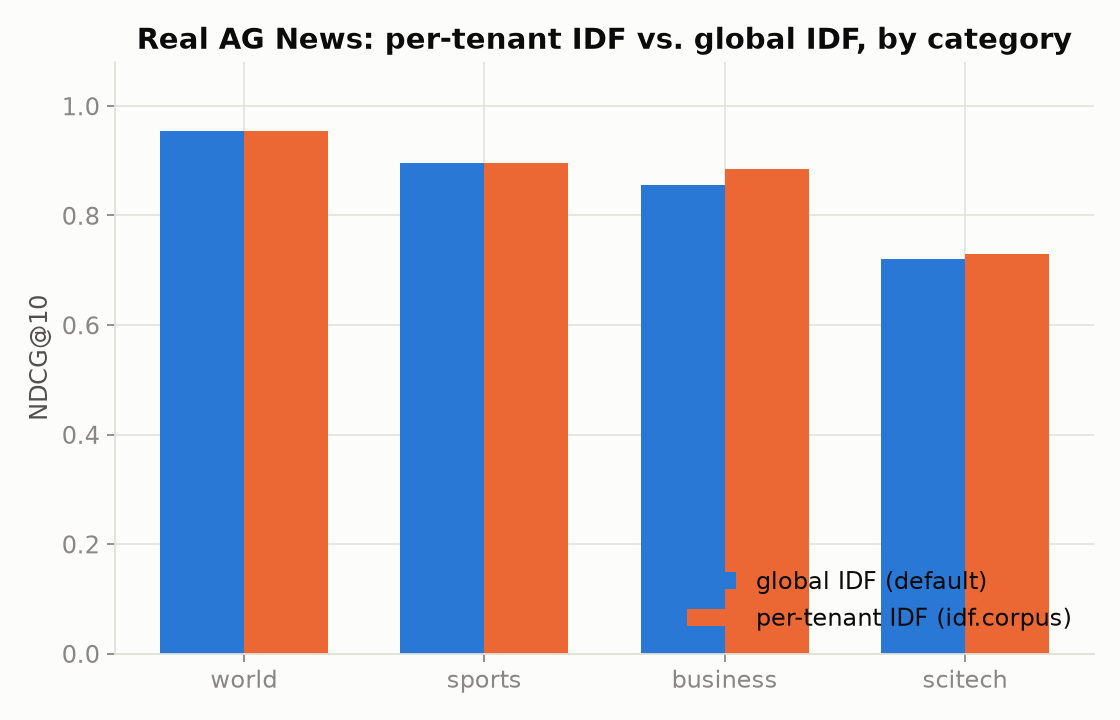
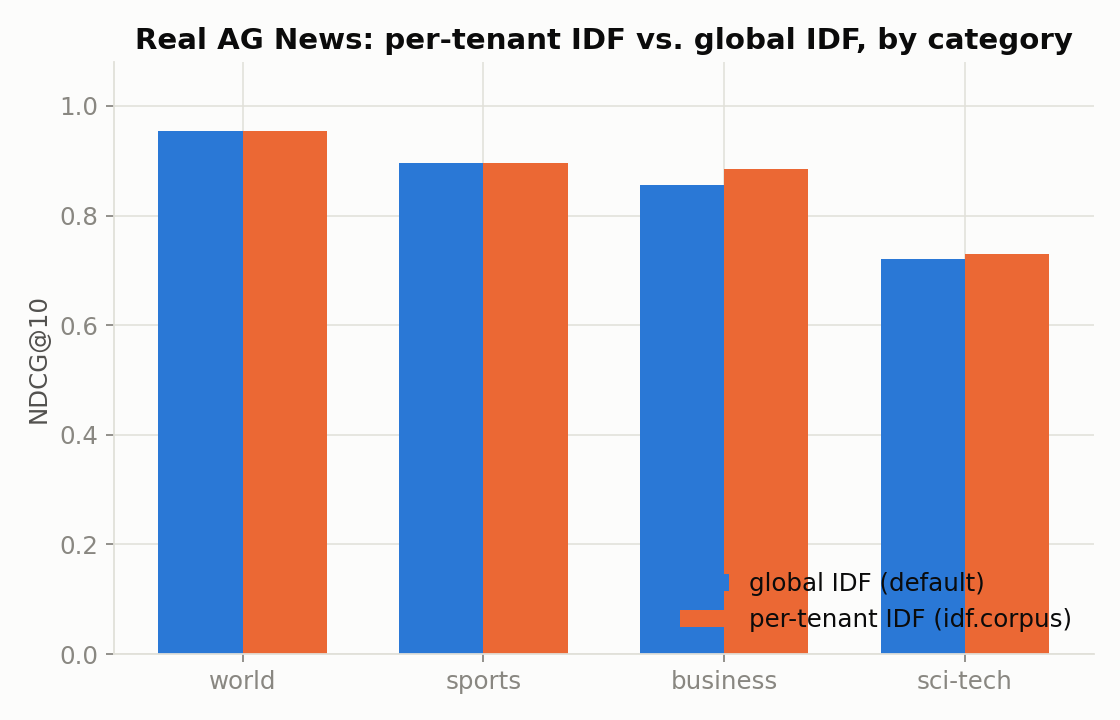
Fix multitenancy chart label and IDF sweep docstring

diff --git a/Multitenancy-Playbook/mtp/viz/charts.py b/Multitenancy-Playbook/mtp/viz/charts.py
@@ -109,7 +109,7 @@ def chart_exp3_real_flagship():
     ax.bar(idx - width / 2, global_scores, width, color=SHARED_COLOR, label="global IDF (default)")
     ax.bar(idx + width / 2, scoped_scores, width, color=DEDICATED_COLOR, label="per-tenant IDF (idf.corpus)")
     ax.set_xticks(idx)
-    ax.set_xticklabels(categories)
+    ax.set_xticklabels(["sci-tech" if c == "scitech" else c for c in categories])
     ax.set_ylim(0, 1.08)
     ax.set_ylabel("NDCG@10")
     ax.set_title("Real AG News: per-tenant IDF vs. global IDF, by category")

diff --git a/Multitenancy-Playbook/mtp/sim/per_tenant_idf.py b/Multitenancy-Playbook/mtp/sim/per_tenant_idf.py
@@ -189,8 +189,8 @@ def run_synthetic_flagship():
 
 
 def run_synthetic_tenant_count_sweep(tenant_counts, trials_per_point):
-    """More tenants sharing a collection -> more 'other' volume diluting global
-    stats -> the distortion should get worse. Uses generic tenant_0..tenant_{T-1}
+    """Measure how the global-versus-per-tenant IDF gap changes with tenant count.
+    Uses generic tenant_0..tenant_{T-1}
     instead of the three named industries, so it scales to any T."""
     rows = []
     for t_count in tenant_counts:
